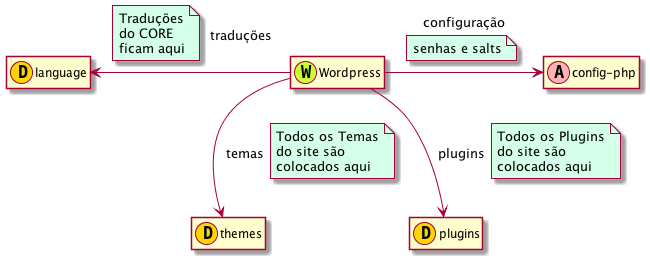
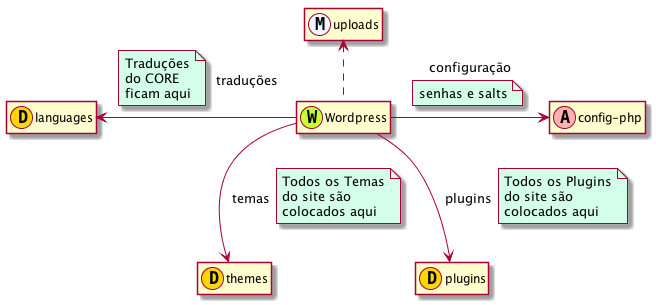
Adicionando informações sobre a estrutura-de-diretorio

diff --git a/README.md b/README.md
@@ -24,6 +24,26 @@ A solução proposta aqui é usar volumes e links simbólicos para facilitar
 o trabalho. Obviamente poderiamos usar outra abordagem. Esta foi uma das 
 escolhas possíveis.
 
+Veja abaixo a proposta de estrutura de diretório para nosso projeto
+
+![estrutura de diretorio](https://raw.githubusercontent.com/joao-parana/jessie-wordpress/master/docs/img/estrutura-de-diretorio.png)
+
+## Configuração
+
+
+### PHP
+
+O arquivo `/usr/local/php/conf.d/uploads.ini` poderia ter um conteúdo 
+como este abaixo para permitir uploads de arquivos de até 256 Megabytes.
+
+    file_uploads = On
+    memory_limit = 256M
+    upload_max_filesize = 256M
+    post_max_size = 300M
+    max_execution_time = 600
+
+## Usando o Docker
+
 Criando a imagem
 
     docker build -t HUB-USER-NAME/jessie-wordpress  .
@@ -161,3 +181,10 @@ Da mesma forma, para verificar a configuração do PHP use:
 
 #### Mais detalhes sobre Docker no meu Blog: [http://joao-parana.com.br/blog/](http://joao-parana.com.br/blog/)
 
+## Resolução de Problemas
+
+### Migrando o Site
+
+Uma descrição completa de como funciona o processo de migração de site 
+no Wordpress pode ser encontrada neste link: 
+[Changing the site URL](https://codex.wordpress.org/Changing_The_Site_URL)
